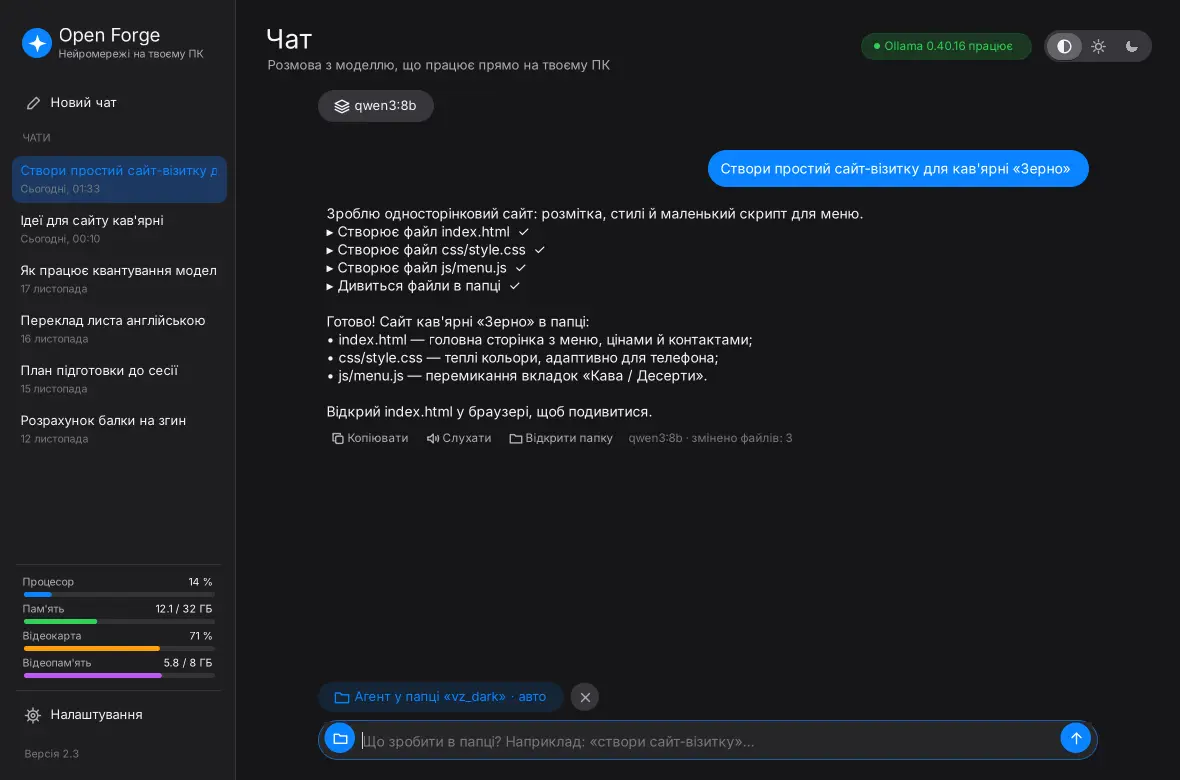
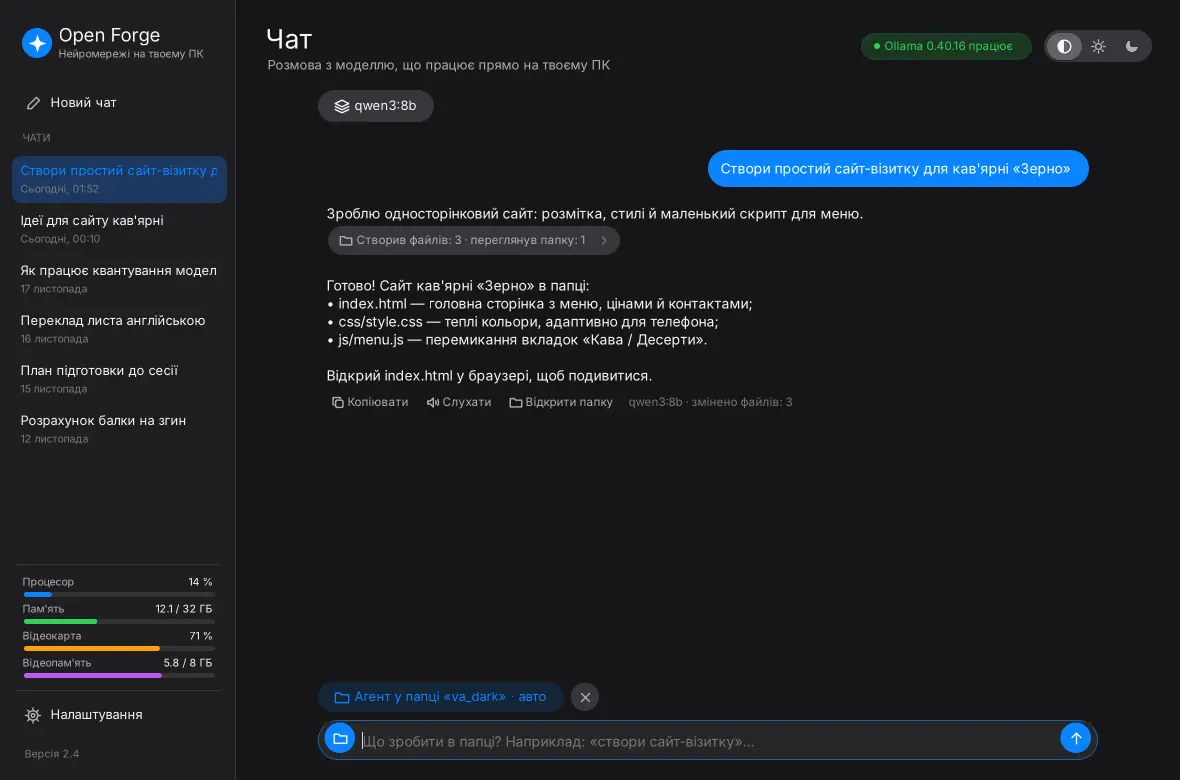
Open Forge 2.4: collapsible agent steps, scroll-to-bottom button
- Agent step lines are folded into one summary row (files created,
  commands run, failures); click expands the full list
- Round down-arrow button appears when scrolled up and jumps to the end

Claude-Session: https://claude.ai/code/session_01SfcRwtUikkL3KpzoXkzQND

Changed region(s): [[0.2746, 0.2769, 0.6712, 0.5846], [0.5492, 0.5538, 0.6712, 0.5846]]

diff --git a/docs/index.html b/docs/index.html
@@ -208,7 +208,7 @@ footer { margin-top: 80px; border-top: 1px solid var(--border); }
 </nav>
 
 <header class="wrap hero">
-  <a class="pill" href="#new">Нове у 2.3: навантаження ПК і 85 моделей →</a>
+  <a class="pill" href="#new">Нове у 2.4: кроки агента одним рядком і кнопка «вниз» →</a>
   <h1>Локальний AI.<br><em>Без обмежень.</em></h1>
   <p class="sub">Запускай, тестуй і порівнюй моделі штучного інтелекту прямо на своєму комп'ютері. Без хмари, без підписок — і з моделями без цензури.</p>
   <div class="actions">
@@ -218,7 +218,7 @@ footer { margin-top: 80px; border-top: 1px solid var(--border); }
     </a>
     <a class="btn btn-ghost" href="https://github.com/Dimonchikk/Open-Forge" target="_blank" rel="noopener">Вихідний код</a>
   </div>
-  <p class="meta">Версія <span class="ver">2.3</span> · <span class="size">200 КБ</span> · Windows 10 і 11 · безкоштовно</p>
+  <p class="meta">Версія <span class="ver">2.4</span> · <span class="size">200 КБ</span> · Windows 10 і 11 · безкоштовно</p>
 
   <div class="shot">
     <img class="only-light" src="img/chat_light.webp" alt="Чат Open Forge: питання і відповідь моделі Qwen 3 8B" width="1180" height="780">
@@ -279,7 +279,7 @@ footer { margin-top: 80px; border-top: 1px solid var(--border); }
 <section id="look" class="gallery">
   <p class="label">Як виглядає</p>
   <h2>Чисто, зрозуміло, у світлій і темній темі</h2>
-  <p class="lead">Скріни Open Forge 2.3. Тема підлаштовується під Windows.</p>
+  <p class="lead">Скріни Open Forge 2.4. Тема підлаштовується під Windows.</p>
   <div class="tabs" role="tablist">
     <button class="tab" role="tab" aria-selected="true" data-shot="chat">Чат</button>
     <button class="tab" role="tab" aria-selected="false" data-shot="agent">Агент</button>
@@ -313,9 +313,11 @@ footer { margin-top: 80px; border-top: 1px solid var(--border); }
 
 <section id="new">
   <p class="label">Що нового</p>
-  <h2>Версія 2.3</h2>
+  <h2>Версія 2.4</h2>
   <div class="newbox">
     <ul>
+      <li><span class="dot"></span><span><b>Кроки агента одним рядком:</b> «Створив файлів: 3 · виконав команд: 1» — клік розгортає повний список.</span></li>
+      <li><span class="dot"></span><span><b>Кнопка «вниз»</b>: прокрутив чат угору — одним кліком назад до кінця розмови.</span></li>
       <li><span class="dot"></span><span><b>Навантаження ПК</b> у боковому меню: процесор, пам'ять, відеокарта й відеопам'ять — видно, скільки займає модель.</span></li>
       <li><span class="dot"></span><span><b>85 моделей у каталозі</b>, зокрема нові для картинок: Qwen VL, Llama 3.2 Vision, MiniCPM-V, LLaVA, Moondream — і версії без цензури.</span></li>
       <li><span class="dot"></span><span><b>Історія чатів</b> і <b>«Слухати»</b> (з 2.2): розмови зберігаються в боковому меню, відповіді можна прослухати.</span></li>
@@ -353,7 +355,7 @@ footer { margin-top: 80px; border-top: 1px solid var(--border); }
 
 <div class="cta" id="download">
   <img class="logo" src="img/icon.png" alt="">
-  <h2>Open Forge <span class="ver">2.3</span></h2>
+  <h2>Open Forge <span class="ver">2.4</span></h2>
   <p class="lead" style="margin: 0 auto 28px">Безкоштовно, з відкритим кодом. Дані залишаються на твоєму комп'ютері.</p>
   <a class="btn btn-primary dl" href="https://github.com/Dimonchikk/Open-Forge/releases/latest">
     <svg viewBox="0 0 24 24" fill="none" stroke="currentColor" stroke-width="2" stroke-linecap="round" stroke-linejoin="round"><path d="M12 4v11M7 10l5 5 5-5M5 20h14"/></svg>
@@ -383,7 +385,7 @@ footer { margin-top: 80px; border-top: 1px solid var(--border); }
   // gallery tabs
   var CAPTIONS = {
     chat: "Зліва — «Новий чат» і всі твої розмови. Відповідь з'являється наживо, код — окремим блоком, під відповіддю «Копіювати» і «Слухати».",
-    agent: "Агент у папці: модель сама створює файли й підпапки, а під відповіддю — «Відкрити папку» і скільки файлів змінено.",
+    agent: "Агент у папці: кроки згорнуті в один рядок (клік — повний список), під відповіддю — «Відкрити папку» і скільки файлів змінено.",
     compare: "Налаштування → Порівняння: одне питання — кілька моделей поруч, зі швидкістю, часом і токенами.",
     models: "Налаштування → Моделі: зелені влазять у відеопам'ять і працюють швидко. Фільтри, пошук, завантаження в один клік.",
     settings: "Налаштування → Загальні: інструкція для моделі, пам'ять розмови, твій ПК, оновлення й видалення."

diff --git a/src/MessageList.cs b/src/MessageList.cs
@@ -23,10 +23,11 @@ namespace OpenForge
         public string Folder;        // папка агента (кнопка «Відкрити папку»)
         public double Tag;           // швидкість (для «Порівняння»)
         public bool Streaming;
+        public bool StepsOpen;       // кроки агента розгорнуті
 
         internal string Shown;
         internal int LayoutW = -1, Height, BubbleW;
-        internal bool LayoutFoot;
+        internal bool LayoutFoot, LayoutSteps;
         internal readonly List<Para> Paras = new List<Para>();
 
         public ChatMessage(string role, string raw) { Role = role; Raw = raw ?? ""; }
@@ -64,8 +65,11 @@ namespace OpenForge
     // Один рядок вихідного тексту (або шматок дуже довгого рядка), розкладений на рядки екрана.
     class Para
     {
-        public const int Text = 0, CodeLine = 1, CodeHead = 2, CodeFoot = 3;
+        public const int Text = 0, CodeLine = 1, CodeHead = 2, CodeFoot = 3, Steps = 4;
         public int Kind;
+        public bool Step;                            // рядок зі списку кроків агента (з відступом, блідий)
+        public List<string> StepList;                // для Steps: усі кроки групи
+        public string Summary;                       // для Steps: підсумок «Створив файлів: 3 · …»
         public string Str = "";
         public int Start;                            // позиція в ChatMessage.Shown
         public List<int> Lines = new List<int> { 0 };  // початки рядків екрана в Str
@@ -235,13 +239,13 @@ namespace OpenForge
             string disp = m.Display;
             if (disp.Length == 0 && m.Streaming) disp = "Думає…";
             bool foot = HasFoot(m);
-            if (disp == m.Shown && w == m.LayoutW && foot == m.LayoutFoot) return;
+            if (disp == m.Shown && w == m.LayoutW && foot == m.LayoutFoot && m.StepsOpen == m.LayoutSteps) return;
 
             // 1. Розбити на абзаци: звичайні рядки й блоки коду між ``` (лише у відповідях моделі).
             var paras = new List<Para>();
             bool parseCode = m.Role == "assistant";
             bool inCode = false;
-            Para head = null;
+            Para head = null, steps = null;
             var code = new StringBuilder();
             int pos = 0;
             foreach (string line in disp.Split('\n'))
@@ -249,6 +253,19 @@ namespace OpenForge
                 int start = pos;
                 pos += line.Length + 1;
                 string trimmed = line.TrimStart();
+                // Кроки агента («▸ …») згортаються в один рядок-підсумок; клік розгортає список.
+                if (parseCode && !inCode && trimmed.StartsWith("▸ "))
+                {
+                    if (steps == null)
+                    {
+                        steps = new Para { Kind = Para.Steps, Str = "", Start = start, StepList = new List<string>() };
+                        paras.Add(steps);
+                    }
+                    steps.StepList.Add(trimmed.Substring(2));
+                    if (m.StepsOpen) paras.Add(new Para { Kind = Para.Text, Str = trimmed.Substring(2), Start = start + (line.Length - trimmed.Length) + 2, Step = true });
+                    continue;
+                }
+                if (trimmed.Length > 0) steps = null;
                 if (parseCode && trimmed.StartsWith("```"))
                 {
                     if (!inCode)
@@ -280,6 +297,15 @@ namespace OpenForge
                 }
                 paras.Add(new Para { Kind = kind, Str = t, Start = off });
             }
+            // Підсумки груп кроків.
+            Para lastSteps = null;
+            foreach (var p in paras) if (p.Kind == Para.Steps) { p.Summary = StepsSummary(p.StepList); lastSteps = p; }
+            if (m.Streaming && lastSteps != null && lastSteps.StepList.Count > 0)
+            {
+                string cur = lastSteps.StepList[lastSteps.StepList.Count - 1];
+                int mark = cur.IndexOf("  ");
+                lastSteps.Summary = "Працює: " + (mark > 0 ? cur.Substring(0, mark) : cur);
+            }
             if (inCode)   // блок ще пишеться — закриваємо його візуально
             {
                 head.Code = code.ToString().TrimEnd('\n');
@@ -298,12 +324,13 @@ namespace OpenForge
             {
                 if (p.Kind == Para.CodeHead) p.H = Ui.S(34);
                 else if (p.Kind == Para.CodeFoot) p.H = Ui.S(20);
+                else if (p.Kind == Para.Steps) p.H = Ui.S(36);
                 else
                 {
                     int fi = p.Kind == Para.CodeLine ? 1 : 0;
-                    int lw = p.Kind == Para.CodeLine ? w - 2 * CodePad : w;
+                    int lw = p.Kind == Para.CodeLine ? w - 2 * CodePad : p.Step ? w - StepIndent : w;
                     Para prev;
-                    if (p.Str.Length > 0 && old.TryGetValue(p.Kind + "\u0001" + p.Str, out prev)) { p.Lines = prev.Lines; p.W = prev.W; }
+                    if (p.Str.Length > 0 && !p.Step && old.TryGetValue(p.Kind + "\u0001" + p.Str, out prev)) { p.Lines = prev.Lines; p.W = prev.W; }
                     else if (p.Str.Length > 0) Wrap(p, Math.Max(Ui.S(20), lw), fi);
                     p.H = p.Lines.Count * (fi == 1 ? lhCode : lhText);
                     maxW = Math.Max(maxW, p.W + (fi == 1 ? 2 * CodePad : 0));
@@ -314,9 +341,38 @@ namespace OpenForge
             m.Shown = disp;
             m.LayoutW = w;
             m.LayoutFoot = foot;
+            m.LayoutSteps = m.StepsOpen;
             bool bubble = m.Role != "assistant";
             m.BubbleW = bubble ? Math.Min(w, maxW) + 2 * PadX + Ui.S(2) : w;
             m.Height = h + (bubble ? 2 * PadY : 0) + (foot ? FootH + Ui.S(4) : 0);
+        }
+
+        int StepIndent { get { return Ui.S(22); } }
+
+        // «Створив файлів: 3 · виконав команд: 1 · помилок: 1»
+        static string StepsSummary(List<string> list)
+        {
+            int create = 0, read = 0, look = 0, cmd = 0, del = 0, fail = 0, other = 0;
+            foreach (string st in list)
+            {
+                if (st.Contains("✗")) fail++;
+                if (st.StartsWith("Створює файл")) create++;
+                else if (st.StartsWith("Читає")) read++;
+                else if (st.StartsWith("Дивиться файли")) look++;
+                else if (st.StartsWith("Виконує команду")) cmd++;
+                else if (st.StartsWith("Видаляє")) del++;
+                else other++;
+            }
+            var parts = new List<string>();
+            if (create > 0) parts.Add("створив файлів: " + create);
+            if (read > 0) parts.Add("прочитав: " + read);
+            if (look > 0) parts.Add("переглянув папку: " + look);
+            if (cmd > 0) parts.Add("виконав команд: " + cmd);
+            if (del > 0) parts.Add("видалив: " + del);
+            if (other > 0) parts.Add("інших кроків: " + other);
+            if (fail > 0) parts.Add("не вдалося: " + fail);
+            string s = string.Join(" · ", parts.ToArray());
+            return s.Length > 0 ? char.ToUpper(s[0]) + s.Substring(1) : "Кроки";
         }
 
         void Recount()
@@ -418,7 +474,8 @@ namespace OpenForge
                     if (ty + p.H >= 0 && ty <= Height)
                     {
                         bool code = p.Kind == Para.CodeLine;
-                        yield return new PV { M = m, Mi = mi, P = p, X = tx + (code ? CodePad : 0), Y = ty, W = m.LayoutW - (code ? 2 * CodePad : 0), Box = r };
+                        int ind = code ? CodePad : p.Step ? StepIndent : 0;
+                        yield return new PV { M = m, Mi = mi, P = p, X = tx + ind, Y = ty, W = m.LayoutW - (code ? 2 * CodePad : ind), Box = r };
                     }
                     ty += p.H;
                     if (ty > Height) break;
@@ -505,9 +562,19 @@ namespace OpenForge
                     continue;
                 }
                 if (p.Kind == Para.CodeFoot) continue;
+                if (p.Kind == Para.Steps)
+                {
+                    var sr = StepsRect(v);
+                    Ui.FillRound(g, sr, sr.Height / 2f, hoverObj == m && hoverKey == "steps" ? Ui.FillHover : Ui.Fill);
+                    float ic = Ui.S(13);
+                    Icons.Draw(g, "folder", new RectangleF(sr.X + Ui.S(11), sr.Y + (sr.Height - ic) / 2f, ic, ic), Ui.Ink2);
+                    Ui.Text(g, p.Summary, Ui.Small, new Rectangle(sr.X + Ui.S(30), sr.Y, sr.Width - Ui.S(56), sr.Height), Ui.Ink2, Ui.Left);
+                    Icons.Draw(g, m.StepsOpen ? "chevron" : "chevron-right", new RectangleF(sr.Right - Ui.S(22), sr.Y + (sr.Height - ic) / 2f, ic, ic), Ui.Ink3);
+                    continue;
+                }
                 int fi = p.Kind == Para.CodeLine ? 1 : 0;
 
-                Color fore = m.IsUser ? Color.White : m.Role == "error" ? Ui.Red : (m.Streaming && m.Display.Length == 0) ? Ui.Ink3 : Ui.Ink;
+                Color fore = m.IsUser ? Color.White : m.Role == "error" ? Ui.Red : (m.Streaming && m.Display.Length == 0) ? Ui.Ink3 : p.Step ? Ui.Ink2 : Ui.Ink;
                 int lh = LineH(p.Kind);
                 int s0, s1;
                 bool hasSel = SelRange(v.Mi, out s0, out s1);
@@ -541,6 +608,33 @@ namespace OpenForge
                     g.FillRectangle(br, 0, 0, Width - Ui.S(12), fh);
             }
             PaintBar(g);
+            PaintDownButton(g);
+        }
+
+        // Кругла кнопка «вниз»: з'являється, коли прокрутив угору від кінця розмови.
+        bool ShowDown { get { return total > Height && offset < MaxOffset - Ui.S(60); } }
+
+        Rectangle DownRect
+        {
+            get { int d = Ui.S(36); return new Rectangle(ColX + ColW / 2 - d / 2, Height - d - Ui.S(10), d, d); }
+        }
+
+        void PaintDownButton(Graphics g)
+        {
+            if (!ShowDown) return;
+            var r = DownRect;
+            bool hov = hoverKey == "down";
+            using (var sh = new SolidBrush(Color.FromArgb(Ui.Dark ? 90 : 28, 0, 0, 0))) g.FillEllipse(sh, r.X, r.Y + Ui.S(2), r.Width, r.Height);
+            using (var b = new SolidBrush(hov ? Ui.Mix(Ui.Card, Ui.Ink, 0.07f) : Ui.Card)) g.FillEllipse(b, r);
+            using (var pen = new Pen(Ui.CardLine, Math.Max(1f, Ui.Scale))) g.DrawEllipse(pen, r);
+            float s = Ui.S(15);
+            Icons.Draw(g, "arrow-down", new RectangleF(r.X + (r.Width - s) / 2f, r.Y + (r.Height - s) / 2f, s, s), Ui.Ink);
+        }
+
+        Rectangle StepsRect(PV v)
+        {
+            int tw = TextRenderer.MeasureText(v.P.Summary ?? "", Ui.Small, Size.Empty, NF).Width;
+            return new Rectangle(v.X, v.Y + Ui.S(4), Math.Min(v.W, tw + Ui.S(62)), Ui.S(28));
         }
 
         void PaintFoot(Graphics g, ChatMessage m, Rectangle r)
@@ -737,8 +831,12 @@ namespace OpenForge
                 if (HasFoot(kv.Key))
                     foreach (var l in FootLinks(kv.Key, kv.Value))
                         if (l.Value.Contains(p)) { obj = kv.Key; key = l.Key; return true; }
+            if (ShowDown && DownRect.Contains(p)) { obj = this; key = "down"; return true; }
             foreach (var v in VisibleParas())
+            {
                 if (v.P.Kind == Para.CodeHead && CodeCopyRect(v).Contains(p)) { obj = v.P; key = "code"; return true; }
+                if (v.P.Kind == Para.Steps && StepsRect(v).Contains(p)) { obj = v.M; key = "steps"; return true; }
+            }
             return false;
         }
 
@@ -846,6 +944,15 @@ namespace OpenForge
             else if (key == "copy") CopyToClipboard(((ChatMessage)obj).Display, obj);
             else if (key == "folder" && OpenFolder != null) OpenFolder(((ChatMessage)obj).Folder);
             else if (key == "speak" && Speak != null) Speak((ChatMessage)obj);
+            else if (key == "down") ScrollToEnd();
+            else if (key == "steps")
+            {
+                var m = (ChatMessage)obj;
+                m.StepsOpen = !m.StepsOpen;
+                ClearSelection();
+                Recount();
+                ScrollTo(offset);
+            }
         }
 
         protected override void OnMouseLeave(EventArgs e)

diff --git a/src/Shell.cs b/src/Shell.cs
@@ -78,6 +78,13 @@ namespace OpenForge
                         g.DrawLines(pen, new[] { P(x, y, s, 0.2f, 0.8f), P(x, y, s, 0.22f, 0.62f), P(x, y, s, 0.7f, 0.14f), P(x, y, s, 0.88f, 0.32f),
                             P(x, y, s, 0.4f, 0.8f), P(x, y, s, 0.2f, 0.8f) });
                         break;
+                    case "chevron-right":
+                        g.DrawLines(pen, new[] { P(x, y, s, 0.38f, 0.22f), P(x, y, s, 0.64f, 0.5f), P(x, y, s, 0.38f, 0.78f) });
+                        break;
+                    case "arrow-down":
+                        g.DrawLine(pen, P(x, y, s, 0.5f, 0.12f), P(x, y, s, 0.5f, 0.86f));
+                        g.DrawLines(pen, new[] { P(x, y, s, 0.18f, 0.56f), P(x, y, s, 0.5f, 0.88f), P(x, y, s, 0.82f, 0.56f) });
+                        break;
                     case "chevron":
                         g.DrawLines(pen, new[] { P(x, y, s, 0.22f, 0.38f), P(x, y, s, 0.5f, 0.64f), P(x, y, s, 0.78f, 0.38f) });
                         break;

diff --git a/src/Version.cs b/src/Version.cs
@@ -6,14 +6,14 @@ using System.Reflection;
 [assembly: AssemblyDescription("Локальні нейромережі на твоєму ПК")]
 [assembly: AssemblyCompany("Дмитро Бричнік")]
 [assembly: AssemblyCopyright("© 2026 Дмитро Бричнік")]
-[assembly: AssemblyVersion("2.3.0.0")]
-[assembly: AssemblyFileVersion("2.3.0.0")]
+[assembly: AssemblyVersion("2.4.0.0")]
+[assembly: AssemblyFileVersion("2.4.0.0")]
 
 namespace OpenForge
 {
     static class AppVersion
     {
-        public const string Text = "2.3";
-        public const string Full = "2.3.0.0";
+        public const string Text = "2.4";
+        public const string Full = "2.4.0.0";
     }
 }

diff --git a/CHANGES.md b/CHANGES.md
@@ -1,5 +1,10 @@
 # Зміни Open Forge
 
+## 2.4
+
+- Кроки агента тепер згортаються в один рядок-підсумок («Створив файлів: 3 · виконав команд: 1»), клік розгортає повний список
+- Кругла кнопка зі стрілкою вниз: з'являється, коли прокрутив чат угору, і повертає в кінець розмови
+
 ## 2.3
 
 - Навантаження ПК у боковому меню над «Налаштуваннями»: процесор, пам'ять, відеокарта й відеопам'ять — видно, скільки займає модель
